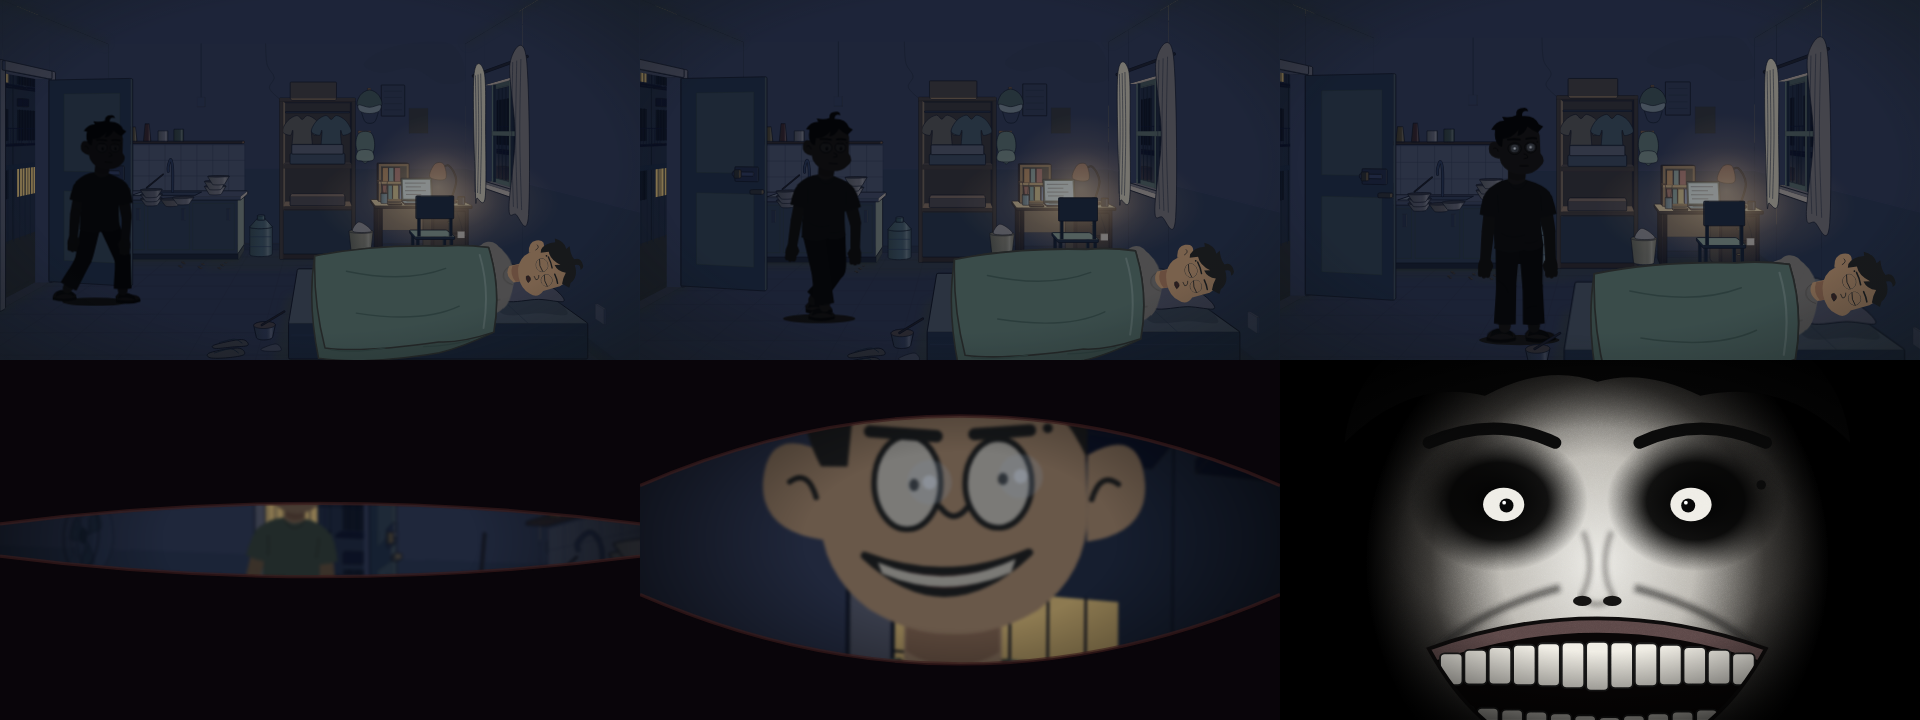
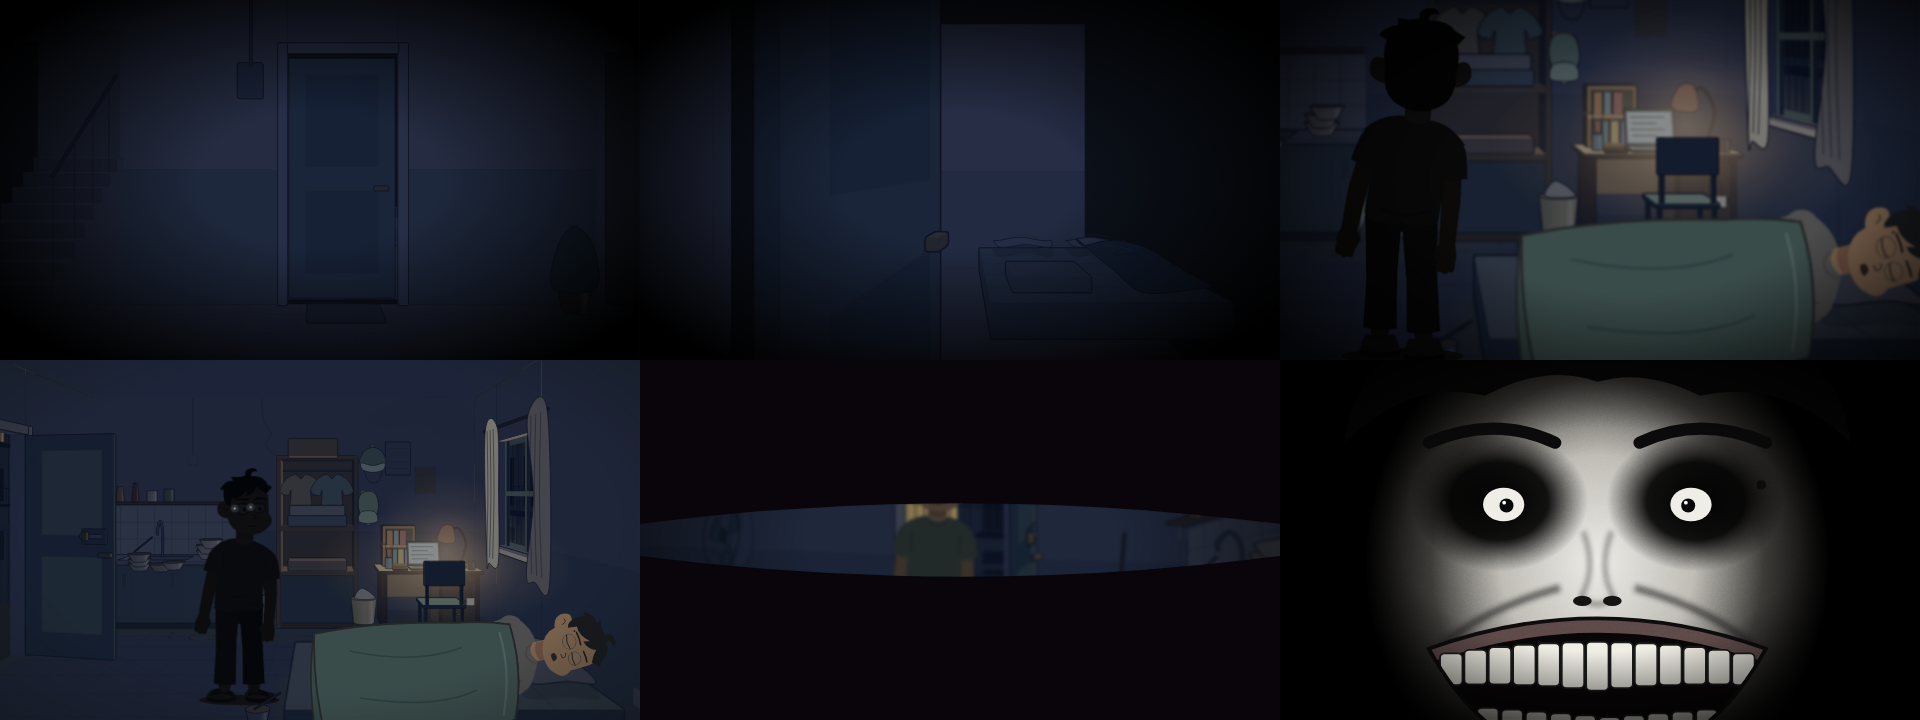
Jumpscare: open with the double's hallway POV and an over-the-back shot
Hallway POV opens the door, then the camera cuts to right behind the
double stepping in (Nam asleep on the right), then the standing shot
with glowing eyes. Nam's POV lids lose the edge outline.

Claude-Session: https://claude.ai/code/session_015xtvRhLRyfqVC2mbHabEYR

diff --git a/what-if-studio/src/episodes/ho-so-02-nguoi-lam-thay/trailer-jumpscare.tsx b/what-if-studio/src/episodes/ho-so-02-nguoi-lam-thay/trailer-jumpscare.tsx
@@ -13,13 +13,16 @@ import { Sleeper } from './canh-01-demo';
  * Báo thức và tên phim nằm ở timeline trailer, không trong clip này.
  * Âm: tiếng phòng ở W và P, tiếng ù thấp dâng cuối P, im 6 frame, tiếng hù đúng lúc cắt vào mặt (file thư viện chép vào public, xem P1.00).
  */
-export const WIDE = 120; // 4 giây toàn phòng: người kia đi bộ chậm trong bóng tối tới cạnh nệm rồi đứng nhìn
+export const HALL = 84; // 2,8 giây: góc nhìn người kia đi dọc hành lang, mở cửa
+export const BEHIND = 72; // 2,4 giây: sát sau lưng người kia khi bước qua cửa, Nam ngủ ở bên phải
+export const WIDE = 84; // 2,8 giây toàn phòng: người kia bước nốt tới trước giường rồi đứng nhìn, mắt lóe sáng
 export const POV = 150; // 5 giây mắt Nam: người kia tiến lại gần dần, máy zoom liền vào đầu
 export const CLOSE = 20; // 0,67 giây: cắt phụt vào mặt dọa rồi sập tối, dứt khoát
 export const BLACK = 16;
-export const JUMP_TOTAL = WIDE + POV + CLOSE + BLACK;
+export const OPEN = HALL + BEHIND + WIDE; // đoạn mở đầu trước góc nhìn của Nam
+export const JUMP_TOTAL = OPEN + POV + CLOSE + BLACK;
 export const SLAM_AT = 0.72; // phần của C mà mí sập xuống
-export const EYES_ON = 100; // frame hai đốm mắt lóe sáng ở cảnh toàn phòng
+export const EYES_ON = 66; // frame (trong cảnh toàn phòng) hai đốm mắt lóe sáng
 
 const ease = (x: number) => x * x * (3 - 2 * x);
 const clamp = (v: number, a = 0, b = 1) => Math.min(b, Math.max(a, v));
@@ -36,16 +39,65 @@ const GlowEyes: React.FC<{ x: number; y: number; scale: number; a: number }> = (
   </g>
 );
 
-/** Toàn phòng: t 0..1 là tiến độ đẩy máy, eyes 0..1 là độ sáng hai đốm mắt. Người kia đi từ cửa tới cạnh nệm trong bóng tối. */
-export const JumpWide: React.FC<{ t: number; eyes?: number }> = ({ t, eyes = 0 }) => {
-  // Bước dón dén: 6 bước chậm, mỗi bước trượt chân rồi dừng một nhịp; bước ngắn, người hơi cúi, đầu hơi rụt.
-  const raw = clamp((t - 0.08) / 0.72), STEPS = 6;
+/** Dáng bước dón dén dùng chung: bước ngắn, người hơi cúi, đầu rụt. `ph` là pha bước, `still` 1 là đứng yên. */
+const tiptoe = (ph: number, still: number, view: 'three' | 'back') => {
+  const base = mixPose(mixPose(sampleWalk(ph), STAND_POSE, 0.4), STAND_POSE, still);
+  return { ...base, tilt: (base.tilt ?? 0) + 7, neck: (base.neck ?? 0) - 6, view, facing: 1 as const };
+};
+
+/** Cảnh 1, góc nhìn người kia: đi dọc hành lang tới cửa phòng Nam, cửa mở ra. Chỉ vignette đen, không viền. */
+export const HallFov: React.FC<{ u: number }> = ({ u }) => {
+  const door = u < 0.48 ? 'closed' : u < 0.6 ? 'ajar' : 'open';
+  const bob = Math.sin(u * 30) * 7, sway = Math.sin(u * 15) * 5;
+  return (
+    <AbsoluteFill style={{ background: '#030405' }}>
+      <div style={{ position: 'absolute', inset: 0, transform: `translate(${sway}px, ${bob}px) scale(1.05)` }}>
+        <RoomNight view="hallway" door={door} kitchen="messy" move={{ push: 470 * ease(clamp(u / 0.96)) }}>
+          <rect width={1920} height={1080} fill="#02040a" opacity={0.3} />
+        </RoomNight>
+      </div>
+      <svg width={1920} height={1080} viewBox="0 0 1920 1080" style={{ position: 'absolute', inset: 0 }}>
+        <defs><radialGradient id="hf-vig" cx=".5" cy=".5" r=".62"><stop offset=".3" stopColor="#000" stopOpacity="0" /><stop offset="1" stopColor="#000" stopOpacity="1" /></radialGradient></defs>
+        <rect width={1920} height={1080} fill="url(#hf-vig)" />
+      </svg>
+    </AbsoluteFill>
+  );
+};
+
+/** Cảnh 2, sát sau lưng người kia khi bước qua cửa: nó ở bên trái khung, bên phải là Nam đang ngủ. */
+export const BehindFrame: React.FC<{ u: number }> = ({ u }) => {
+  const raw = clamp(u), STEPS = 4;
   const i = Math.min(STEPS - 1, Math.floor(raw * STEPS)), fr = raw * STEPS - i;
   const wk = raw >= 1 ? 1 : (i + ease(clamp(fr * 1.35))) / STEPS;
-  const at: [number, number] = [8 + 206 * wk, 215 + 75 * wk];
-  const base = mixPose(mixPose(sampleWalk(wk * (STEPS / 2)), STAND_POSE, 0.4), STAND_POSE, raw >= 1 ? 1 : 0);
-  const pose = { ...base, tilt: (base.tilt ?? 0) + 7, neck: (base.neck ?? 0) - 6, view: 'three' as const, facing: 1 as const };
-  const dark = 0.06 + 0.06 * wk; // đi vào càng gần đèn bàn càng lộ ra một chút
+  const z = 1.6 + 0.16 * ease(u);
+  return (
+    <AbsoluteFill style={{ background: '#030405' }}>
+      <div style={{ position: 'absolute', inset: 0, transformOrigin: '1700px 830px', transform: `scale(${z.toFixed(3)})`, filter: 'blur(2px)' }}>
+        <RoomNight door="open" kitchen="messy" sleeper={Sleeper({ phone: false, cover: 0, breath: Math.sin(u * 14) * 5, f: 0 })}>
+          <rect width={1920} height={1080} fill="#02040a" opacity={0.45} />
+        </RoomNight>
+      </div>
+      <svg width={1920} height={1080} viewBox="0 0 1920 1080" style={{ position: 'absolute', inset: 0 }}>
+        <defs>
+          <radialGradient id="bf-vig" cx=".55" cy=".5" r=".7"><stop offset=".45" stopColor="#000" stopOpacity="0" /><stop offset="1" stopColor="#000" stopOpacity=".85" /></radialGradient>
+        </defs>
+        <g style={{ filter: 'brightness(.07) saturate(.3)' }}>
+          <StudentTwinBody identity="nguoi-kia" outfit="xanh" mood="calm" pose={tiptoe(wk * (STEPS / 2), 0, 'back')} x={330 + 70 * wk} y={20 + 8 * Math.sin(wk * Math.PI * STEPS)} scale={1.78} />
+        </g>
+        <rect width={1920} height={1080} fill="url(#bf-vig)" />
+      </svg>
+    </AbsoluteFill>
+  );
+};
+
+/** Cảnh 3, toàn phòng: người kia bước nốt tới trước giường rồi đứng nhìn Nam; cuối cảnh hai đốm mắt lóe sáng. */
+export const JumpWide: React.FC<{ t: number; eyes?: number }> = ({ t, eyes = 0 }) => {
+  const raw = clamp((t - 0.03) / 0.5), STEPS = 2;
+  const i = Math.min(STEPS - 1, Math.floor(raw * STEPS)), fr = raw * STEPS - i;
+  const wk = raw >= 1 ? 1 : (i + ease(clamp(fr * 1.35))) / STEPS;
+  const at: [number, number] = [150 + 64 * wk, 262 + 28 * wk];
+  const pose = tiptoe(wk * (STEPS / 2), raw >= 1 ? 1 : 0, 'three');
+  const dark = 0.08 + 0.05 * wk;
   return (
     <AbsoluteFill style={{ background: '#05070b' }}>
       <RoomNight
@@ -71,7 +123,7 @@ export const JumpWide: React.FC<{ t: number; eyes?: number }> = ({ t, eyes = 0 }
   );
 };
 
-/** Mí mắt: s 0..1 là độ mở. Rìa mí là hình thấu kính, hai khoé luôn khép nhỏ nhất. */
+/** Mí mắt: s 0..1 là độ mở. Chỉ phần đen, không viền; rìa mí là hình thấu kính, hai khoé luôn khép nhỏ nhất. */
 const Lids: React.FC<{ s: number }> = ({ s }) => {
   const G = clamp(s, 0.015, 1) * 1000;
   const c = 0.22 * G, m = 0.78 * G;
@@ -79,8 +131,6 @@ const Lids: React.FC<{ s: number }> = ({ s }) => {
     <g>
       <path d={`M-40 -40 H1960 V540 H1920 V${540 - c} Q960 ${540 - m} 0 ${540 - c} V540 H-40 Z`} fill="#09050a" />
       <path d={`M-40 1120 H1960 V540 H1920 V${540 + c} Q960 ${540 + m} 0 ${540 + c} V540 H-40 Z`} fill="#09050a" />
-      <path d={`M0 ${540 - c} Q960 ${540 - m} 1920 ${540 - c}`} fill="none" stroke="#3a1c1c" strokeWidth={10} opacity={0.7} />
-      <path d={`M0 ${540 + c} Q960 ${540 + m} 1920 ${540 + c}`} fill="none" stroke="#3a1c1c" strokeWidth={10} opacity={0.7} />
     </g>
   );
 };
@@ -208,30 +258,34 @@ export const ScareFace: React.FC<{ k: number }> = ({ k }) => {
 
 /** Âm thanh: file thư viện chép vào public/ho-so-02-nguoi-lam-thay/sfx/ (thư mục bị Git bỏ qua). */
 const SFX = (name: string) => staticFile(`ho-so-02-nguoi-lam-thay/sfx/${name}`);
+const SCARE = OPEN + POV; // frame cắt vào mặt dọa
+const STEP_FRAMES = [12, 28, 44, 60, HALL + 10, HALL + 28, HALL + 46, HALL + 62, HALL + BEHIND + 12, HALL + BEHIND + 38];
 export const JumpAudio: React.FC = () => (
   <>
-    <Sequence durationInFrames={WIDE + POV - 6}><Audio src={SFX('room_tone.mp3')} volume={0.5} /></Sequence>
-    <Sequence from={WIDE + POV - 40} durationInFrames={34}><Audio src={SFX('power_hum.mp3')} volume={0.35} /></Sequence>
-    {[20, 34, 49, 63, 78, 92].map((f) => <Sequence key={f} from={f} durationInFrames={12}><Audio src={SFX('step.mp3')} volume={0.3} /></Sequence>)}
+    <Sequence durationInFrames={SCARE - 6}><Audio src={SFX('room_tone.mp3')} volume={0.45} /></Sequence>
+    <Sequence from={HALL * 0.58} durationInFrames={20}><Audio src={SFX('crack.mp3')} volume={0.35} /></Sequence>
+    {STEP_FRAMES.map((f) => <Sequence key={f} from={f} durationInFrames={12}><Audio src={SFX('step.mp3')} volume={0.3} /></Sequence>)}
+    <Sequence from={SCARE - 40} durationInFrames={34}><Audio src={SFX('power_hum.mp3')} volume={0.35} /></Sequence>
     {/* 6 frame im bặt trước cú hù */}
-    <Sequence from={WIDE + POV}><Audio src={SFX('drone_hit.mp3')} volume={1} /></Sequence>
-    <Sequence from={WIDE + POV}><Audio src={SFX('glitch.mp3')} volume={0.5} /></Sequence>
+    <Sequence from={SCARE}><Audio src={SFX('drone_hit.mp3')} volume={1} /></Sequence>
+    <Sequence from={SCARE}><Audio src={SFX('glitch.mp3')} volume={0.5} /></Sequence>
   </>
 );
 
 export const HoSo02TrailerJumpscare: React.FC = () => {
   const f = useCurrentFrame();
-  const view = f < WIDE
-    ? <JumpWide t={interpolate(f, [0, WIDE], [0, 1])} eyes={interpolate(f, [EYES_ON, EYES_ON + 6], [0, 1], { extrapolateLeft: 'clamp', extrapolateRight: 'clamp' })} />
-    : f < WIDE + POV ? <PovFrame u={(f - WIDE) / POV} />
-    : f < WIDE + POV + CLOSE ? <ScareFace k={(f - WIDE - POV) / CLOSE} />
+  const view = f < HALL ? <HallFov u={f / HALL} />
+    : f < HALL + BEHIND ? <BehindFrame u={(f - HALL) / BEHIND} />
+    : f < OPEN ? <JumpWide t={(f - HALL - BEHIND) / WIDE} eyes={interpolate(f - HALL - BEHIND, [EYES_ON, EYES_ON + 6], [0, 1], { extrapolateLeft: 'clamp', extrapolateRight: 'clamp' })} />
+    : f < OPEN + POV ? <PovFrame u={(f - OPEN) / POV} />
+    : f < OPEN + POV + CLOSE ? <ScareFace k={(f - OPEN - POV) / CLOSE} />
     : <AbsoluteFill style={{ background: '#000' }} />;
   return <AbsoluteFill>{view}<JumpAudio /></AbsoluteFill>;
 };
 
-/** Sáu khung tĩnh để duyệt: người kia tiến lại gần, zoom vào đầu, mặt méo dần, mí sập. */
+/** Sáu khung tĩnh để duyệt: hành lang, sau lưng người kia, đứng trước giường, mắt Nam, mặt dọa. */
 export const HoSo02JumpscareBoard: React.FC = () => {
-  const panels: React.ReactNode[] = [<JumpWide t={0.3} />, <JumpWide t={0.55} />, <JumpWide t={1} eyes={1} />, <PovFrame u={0.62} />, <PovFrame u={0.96} />, <ScareFace k={0.4} />];
+  const panels: React.ReactNode[] = [<HallFov u={0.3} />, <HallFov u={0.85} />, <BehindFrame u={0.5} />, <JumpWide t={1} eyes={1} />, <PovFrame u={0.62} />, <ScareFace k={0.4} />];
   return (
     <div style={{ width: 1920, height: 720, display: 'grid', gridTemplateColumns: '1fr 1fr 1fr', gridTemplateRows: '1fr 1fr', background: '#111' }}>
       {panels.map((el, i) => (

diff --git a/episodes/hem-co-chuyen/ho-so-02-nguoi-lam-thay/PHAN-01-NGUOI-TRONG-PHONG.md b/episodes/hem-co-chuyen/ho-so-02-nguoi-lam-thay/PHAN-01-NGUOI-TRONG-PHONG.md
@@ -109,9 +109,13 @@ Ba hình nhanh: **`kitchen` — đống chén ở bồn → `bed` — áo xanh t
 
 ### O05 — Jumpscare · khoảng 0:30–0:40 · toàn phòng → mắt Nam → cận mặt
 
-Chỉ cảnh đầu là toàn phòng; từ đó trở đi là **góc nhìn của Nam**. Không há miệng, không nuốt.
+Ba cảnh đầu (H, B, W) kể từ phía người kia; từ đó trở đi là **góc nhìn của Nam**, mí mắt chỉ là phần đen, không viền. Không há miệng, không nuốt.
 
-**W · 4 giây · gần như im lặng, phòng tối hơn bản trước.** Toàn phòng ban đêm, máy đẩy chậm. Nam nằm ngủ toàn thân, đắp chăn (mẫu nằm `Sleeper` của cảnh 1). **Cửa mở, một bóng đen người bước vào, đi dón dén trong bóng tối** (6 bước ngắn, người hơi cúi, mỗi bước dừng một nhịp) tới cạnh nệm, chỉ thấy hình dáng, tiếng bước chân đều và nhỏ. Nó đứng im nhìn Nam. Cuối cảnh, **hai đốm mắt trong bóng đen lóe sáng** rồi giữ sáng.
+**H · 2,8 giây · góc nhìn người kia.** Cảnh đầu tiên. Nó đi dọc hành lang trong bóng tối tới cửa phòng Nam, bước dón dén, máy lắc nhẹ theo nhịp bước. Cửa từ từ mở ra (tiếng gỗ kẽo kẹt nhỏ). Chỉ vignette đen quanh khung, **không viền**.
+
+**B · 2,4 giây · sát sau lưng người kia.** Khi nó bước qua cửa, cắt sang góc **sát sau lưng**: bóng đen người kia chiếm **bên trái** khung, **bên phải là Nam đang ngủ** trong phòng. Nó tiếp tục bước dón dén, máy đẩy rất chậm.
+
+**W · 2,8 giây · toàn phòng, tối hơn bản trước.** Người kia bước nốt hai bước tới trước giường rồi đứng im nhìn Nam ngủ (mẫu nằm `Sleeper` của cảnh 1). Cuối cảnh, **hai đốm mắt trong bóng đen lóe sáng** rồi giữ sáng.
 
 **P · 5 giây.** Cắt sang mắt Nam: mí còn nặng, mở dần theo hình thấu kính, cảnh nhòe rồi rõ dần. Người kia, mặt giống hệt Nam, đứng ở cửa rồi **tiến lại gần đều và chậm**, **cười rợn ngay từ đầu đoạn**, nụ cười toét dần khi tới gần. Nam chớp mắt một lần khi nhận ra chính mình, hai đốm mắt sáng lên. Nó dừng lại, đứng cười. Rồi máy **vụt một cái vào mặt nó** (khoảng 0,2 giây), không zoom chậm.
 
@@ -119,7 +123,7 @@ Chỉ cảnh đầu là toàn phòng; từ đó trở đi là **góc nhìn của
 
 **Âm:** tiếng phòng ở W và P; tiếng ù thấp dâng cuối P; im khoảng 0,2 giây; tiếng hù (`drone_hit` chồng `glitch`) đúng frame cắt vào mặt. Âm lấy từ thư viện, chưa nghe duyệt kỹ.
 
-**Cắt đen**, rồi chuông báo thức vào ở O06. Cả đoạn dài khoảng 10 giây, dài hơn mốc 4 giây cũ; tổng trailer sẽ vượt 40 giây nếu giữ nguyên các đoạn khác.
+**Cắt đen**, rồi chuông báo thức vào ở O06. Cả đoạn dài khoảng 14 giây, dài hơn mốc 4 giây cũ; tổng trailer sẽ vượt 40 giây nếu giữ nguyên các đoạn khác.
 
 **Logic truyện:** theo [dòng thời gian V1](LUAT-BAN-NHAP-V1.md#dòng-thời-gian-và-quyền), thực thể ra ngoài trong đêm trước ngày 1. Cú hù chỉ cho thấy nó đứng nhìn Nam ngủ; không lộ nó từ đâu ra hay gương liên quan thế nào. Nó mặc áo xanh lấy từ ghế, khớp với buổi sáng ở P1.01. Đây là cảnh đề xuất mới, chưa được duyệt thành lore.
 
